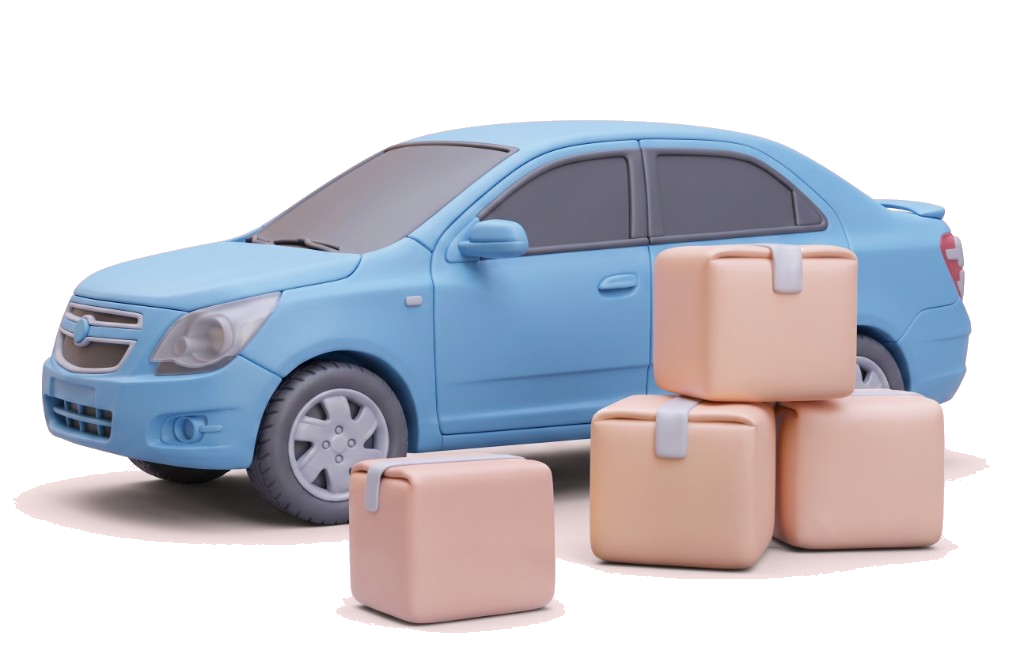
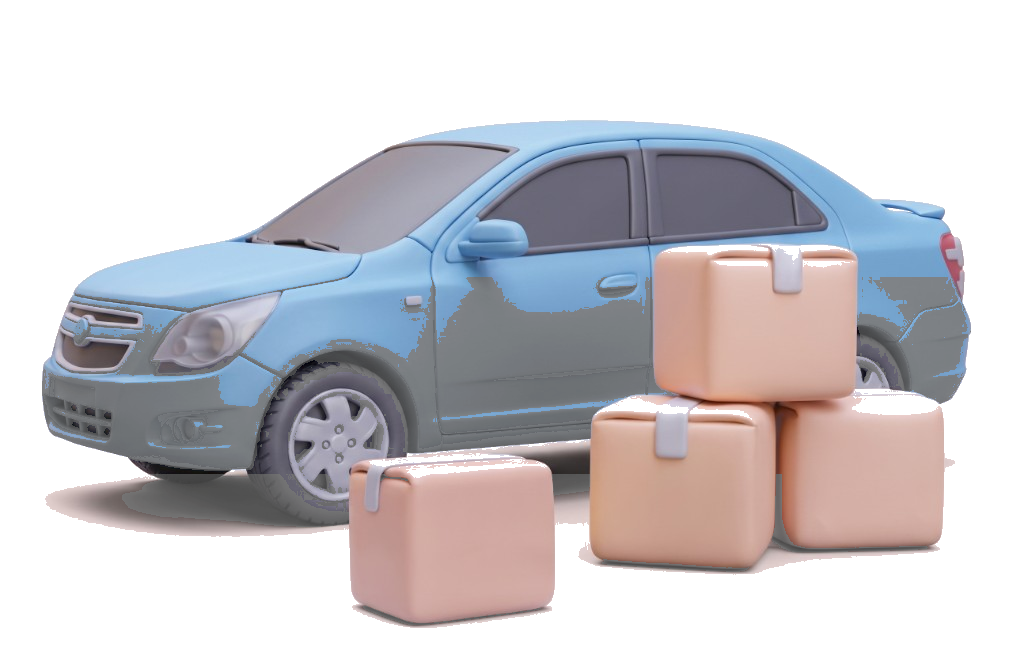
update

diff --git a/index.html b/index.html
@@ -133,10 +133,9 @@ html,body{
 }
 .shipment-card{
   display:flex;align-items:center;justify-content:space-between;gap:10px;
-  padding:13px;background:rgba(255,255,255,.92);
-  backdrop-filter:blur(12px);-webkit-backdrop-filter:blur(12px);
-  border-radius:22px;border:1px solid rgba(255,255,255,.65);
-  box-shadow:0 6px 24px rgba(0,0,0,.06);
+  padding:13px;background:transparent;
+  border-radius:22px;border:none;
+  box-shadow:none;
 }
 .shipment-thumb{
   width:56px;height:56px;border-radius:12px;object-fit:cover;
@@ -149,7 +148,7 @@ html,body{
   background:#E1F0FA;border:none;
 }
 .shipment-type-icon svg{width:22px;height:22px}
-.shipment-status--travel{color:var(--tg-blue);background:rgba(42,171,238,.14)}
+.shipment-status--travel{color:var(--tg-blue);background:transparent}
 .shipment-body{flex:1;min-width:0;display:flex;flex-direction:column;gap:4px}
 .shipment-dest{
   font-size:16px;font-weight:800;color:#0f172a;letter-spacing:-.02em;
@@ -158,7 +157,7 @@ html,body{
 .shipment-date{font-size:11px;color:#9ca3af;font-weight:500}
 .shipment-status{
   display:inline-block;font-size:11px;font-weight:700;color:var(--tg-blue);
-  background:#E1F0FA;padding:3px 8px;border-radius:6px;width:fit-content;line-height:1.2;
+  background:transparent;padding:3px 0;border-radius:0;width:fit-content;line-height:1.2;
 }
 .shipment-actions{display:flex;align-items:center;gap:6px;flex-shrink:0}
 .shipment-icon-btn{
@@ -239,6 +238,8 @@ html,body{
   height:44px;padding:0;gap:4px;
   scroll-snap-type:x mandatory;
   scroll-padding-inline:50%;
+  overscroll-behavior-x:contain;
+  scroll-behavior:auto;
 }
 #driverView .region-picker--horizontal .region-picker-spacer{
   flex:0 0 auto;min-width:0;scroll-snap-align:none;
@@ -792,11 +793,11 @@ html,body{
 .theme-telegram .region-picker-item.is-adjacent{color:var(--tg-hint)!important}
 .theme-telegram .shipments-head{color:var(--tg-btn)!important}
 .theme-telegram .shipment-card{
-  background:var(--tg-section)!important;border-color:var(--tg-secondary)!important;
+  background:transparent!important;border:none!important;box-shadow:none!important;
 }
 .theme-telegram .shipment-dest{color:var(--tg-text)!important}
 .theme-telegram .shipment-status{
-  color:var(--tg-btn)!important;background:color-mix(in srgb,var(--tg-btn) 12%,transparent)!important;
+  color:var(--tg-btn)!important;background:transparent!important;
 }
 .theme-telegram .shipment-icon-btn--edit svg{stroke:var(--tg-btn)!important}
 .theme-telegram .shipment-icon-btn--location svg{fill:var(--tg-btn)!important;stroke:var(--tg-btn)!important}
@@ -956,7 +957,7 @@ html,body{
       <div id="senderView">
         <div class="sender-body">
           <div class="scene" aria-hidden="true">
-            <img class="scene-img" src="assets/scene-clay.png" alt="" width="1024" height="658" decoding="async"/>
+            <img class="scene-img" src="assets/scene-clay.png?v=2" alt="" width="1024" height="658" decoding="async"/>
           </div>
           <div class="shipments-wrap" id="shipmentsWrap">
             <div class="shipments-head">Jo'natmalarim</div>
@@ -1368,7 +1369,8 @@ const MAP_MARKER_PERSON_SVG = `<svg xmlns="http://www.w3.org/2000/svg" viewBox="
   <path d="M14 34 Q20 30 26 32 L24 50 Q20 48 16 50 Z" fill="url(#pg)" opacity=".95"/>
   <path d="M50 34 Q44 30 38 32 L40 50 Q44 48 48 50 Z" fill="url(#pg)" opacity=".95"/>
 </svg>`;
-let selectedDriverRegion = 'Samarqand';
+let selectedDriverRegion = REGION_ALL;
+let pickerVisualRaf = null;
 let regionPickerBuilt = false;
 let lastDriverPickerKey = '';
 let userLocationRegion = null;
@@ -1399,6 +1401,8 @@ let locationPickerPin = null;
 const SHIPMENT_ICON_EDIT = '<svg viewBox="0 0 24 24" aria-hidden="true"><path d="M12 20h9"/><path d="M16.5 3.5a2.12 2.12 0 0 1 3 3L7 19l-4 1 1-4 6.5-6.5z"/></svg>';
 const SHIPMENT_ICON_PIN = '<svg viewBox="0 0 24 24" aria-hidden="true"><path d="M12 22s7-4.35 7-11a7 7 0 1 0-14 0c0 6.65 7 11 7 11z"/><circle cx="12" cy="10" r="2.8"/></svg>';
 const SHIPMENT_ICON_TRASH = '<svg viewBox="0 0 24 24" aria-hidden="true"><path d="M4 7h16"/><path d="M9 7V5h6v2"/><path d="M7 7l1 13h8l1-13"/><path d="M10 11v5M14 11v5"/></svg>';
+
+const REGION_ALL = '__all__';
 
 const UZ_REGIONS = [
   'Toshkent', 'Samarqand', "Farg'ona", 'Andijon', 'Namangan', 'Buxoro',
@@ -1475,8 +1479,14 @@ function detectRegionFromCoords(lng, lat){
 }
 
 function getPickerRegions(){
-  if (!userLocationRegion) return [...UZ_REGIONS];
-  return UZ_REGIONS.filter(r => r !== userLocationRegion);
+  const base = userLocationRegion
+    ? UZ_REGIONS.filter(r => r !== userLocationRegion)
+    : [...UZ_REGIONS];
+  return base.includes(REGION_ALL) ? base : [...base, REGION_ALL];
+}
+
+function isRegionAll(region){
+  return region === REGION_ALL;
 }
 
 function getDistrictsForRegion(region){
@@ -1495,7 +1505,8 @@ function destToRegion(dest){
 }
 
 function destMatchesDriverRegion(dest){
-  if (!selectedDriverRegion || !dest) return false;
+  if (!dest) return false;
+  if (!selectedDriverRegion || isRegionAll(selectedDriverRegion)) return true;
   return dest === selectedDriverRegion || dest.startsWith(selectedDriverRegion + ' —');
 }
 
@@ -1512,7 +1523,8 @@ async function refreshUserLocationRegion(){
 
 function fillRegionSelect(el, placeholder, regions){
   if (!el) return;
-  const list = regions || UZ_REGIONS;
+  const base = regions || UZ_REGIONS;
+  const list = base.includes(REGION_ALL) ? base : [...base, REGION_ALL];
   const ph = placeholder || 'Viloyatni tanlang';
   const phCyr = UI_PHRASE_CYRILLIC[ph] || latinToCyrillic(ph);
   el.innerHTML = `<option value="" disabled selected>${phCyr}</option>` +
@@ -1554,6 +1566,7 @@ function buildRegionPickerTrackPlain(track, regions){
 }
 
 function regionPickerLabel(region){
+  if (isRegionAll(region)) return 'Ҳаммаси';
   return REGION_CYRILLIC[region] || latinToCyrillic(region);
 }
 
@@ -1595,31 +1608,25 @@ function scrollPickerToRegion(track, region, smooth){
   const el = track.querySelector(`[data-region="${region}"]`);
   if (!el) return;
   const vertical = track.closest('.region-picker--vertical');
+  const driverH = isDriverHorizontalTrack(track);
+  const behavior = smooth && !driverH ? 'smooth' : 'instant';
   if (vertical) {
     const top = el.offsetTop - (track.clientHeight / 2) + (el.offsetHeight / 2);
-    track.scrollTo({ top, behavior: smooth ? 'smooth' : 'instant' });
+    track.scrollTo({ top, behavior });
   } else {
     layoutHorizontalPickerSpacers(track);
     const left = Math.max(0, el.offsetLeft - (track.clientWidth - el.offsetWidth) / 2);
     const max = track.scrollWidth - track.clientWidth;
-    track.scrollTo({ left: Math.min(left, max), behavior: smooth ? 'smooth' : 'instant' });
+    track.scrollTo({ left: Math.min(left, max), behavior });
   }
 }
 
-function snapHorizontalPickerToNearest(track, smooth, onCommit){
-  const items = [...track.querySelectorAll('.region-picker-item')];
-  if (!items.length) return;
-  const center = track.scrollLeft + track.clientWidth / 2;
-  let closest = null;
-  let best = Infinity;
-  items.forEach(item => {
-    const mid = item.offsetLeft + item.offsetWidth / 2;
-    const d = Math.abs(mid - center);
-    if (d < best) { best = d; closest = item; }
+function schedulePickerVisuals(track, commit, onCommit){
+  if (pickerVisualRaf) cancelAnimationFrame(pickerVisualRaf);
+  pickerVisualRaf = requestAnimationFrame(() => {
+    pickerVisualRaf = null;
+    updateRegionPickerVisuals(commit, track, onCommit);
   });
-  if (!closest) return;
-  scrollPickerToRegion(track, closest.dataset.region, smooth);
-  updateRegionPickerVisuals(true, track, onCommit);
 }
 
 function bindRegionPickerScroll(track, onCommit){
@@ -1627,21 +1634,12 @@ function bindRegionPickerScroll(track, onCommit){
   track.dataset.pickerBound = '1';
   const driverH = isDriverHorizontalTrack(track);
   track.querySelectorAll('.region-picker-item').forEach(btn => {
-    btn.addEventListener('click', () => scrollPickerToRegion(track, btn.dataset.region, true));
+    btn.addEventListener('click', () => scrollPickerToRegion(track, btn.dataset.region, !driverH));
   });
-  let scrollTimer;
-  const onScroll = () => {
-    updateRegionPickerVisuals(false, track, onCommit);
-    clearTimeout(scrollTimer);
-    scrollTimer = setTimeout(() => {
-      if (driverH) snapHorizontalPickerToNearest(track, true, onCommit);
-      else updateRegionPickerVisuals(true, track, onCommit);
-    }, 100);
-  };
+  const onScroll = () => schedulePickerVisuals(track, false, onCommit);
   track.addEventListener('scroll', onScroll, { passive: true });
   track.addEventListener('scrollend', () => {
-    if (driverH) snapHorizontalPickerToNearest(track, true, onCommit);
-    else updateRegionPickerVisuals(true, track, onCommit);
+    updateRegionPickerVisuals(true, track, onCommit);
   }, { passive: true });
 }
 
@@ -1649,23 +1647,26 @@ function updateRegionPickerVisuals(commit, trackEl, onCommit){
   const track = trackEl || document.getElementById('regionPickerTrack');
   if (!track) return;
   const vertical = !!track.closest('.region-picker--vertical');
-  const trackRect = track.getBoundingClientRect();
-  const centerX = trackRect.left + trackRect.width / 2;
-  const centerY = trackRect.top + trackRect.height / 2;
   const items = [...track.querySelectorAll('.region-picker-item')];
+  if (!items.length) return;
   let closest = null;
   let closestDist = Infinity;
 
-  items.forEach(item => {
-    const rect = item.getBoundingClientRect();
-    const dist = vertical
-      ? Math.abs(rect.top + rect.height / 2 - centerY)
-      : Math.abs(rect.left + rect.width / 2 - centerX);
-    if (dist < closestDist) {
-      closestDist = dist;
-      closest = item;
-    }
-  });
+  if (vertical) {
+    const centerY = track.scrollTop + track.clientHeight / 2;
+    items.forEach(item => {
+      const mid = item.offsetTop + item.offsetHeight / 2;
+      const dist = Math.abs(mid - centerY);
+      if (dist < closestDist) { closestDist = dist; closest = item; }
+    });
+  } else {
+    const centerX = track.scrollLeft + track.clientWidth / 2;
+    items.forEach(item => {
+      const mid = item.offsetLeft + item.offsetWidth / 2;
+      const dist = Math.abs(mid - centerX);
+      if (dist < closestDist) { closestDist = dist; closest = item; }
+    });
+  }
 
   items.forEach(item => item.classList.remove('is-center', 'is-adjacent'));
   if (!closest) return;
@@ -1722,11 +1723,15 @@ function ensureDriverRegionPicker(){
     track.dataset.driverPickerResize = '1';
     const zone = track.closest('.driver-picker-zone');
     if (zone && typeof ResizeObserver !== 'undefined') {
+      let resizeTimer;
       new ResizeObserver(() => {
         if (!document.body.classList.contains('view-driver')) return;
-        layoutHorizontalPickerSpacers(track);
-        scrollPickerToRegion(track, selectedDriverRegion, false);
-        updateRegionPickerVisuals(false, track);
+        clearTimeout(resizeTimer);
+        resizeTimer = setTimeout(() => {
+          layoutHorizontalPickerSpacers(track);
+          scrollPickerToRegion(track, selectedDriverRegion, false);
+          updateRegionPickerVisuals(false, track);
+        }, 80);
       }).observe(zone);
     }
   }
@@ -1791,7 +1796,8 @@ const UI_PHRASE_CYRILLIC = {
   'Rasm olindi!': 'Расм олинди!', 'Rasm yuklandi!': 'Расм юкланди!',
   'Saqlandi': 'Сақланди', 'Avval rasm oling': 'Аввал расм олинг',
   'Keyingi': 'Кейинги', 'Tuman tanlash': 'Туман танлаш',
-  'Tuman tanlang': 'Туман танланг'
+  'Tuman tanlang': 'Туман танланг',
+  'Aniq viloyatni tanlang': 'Аниқ вилоятни танланг'
 };
 
 const LATIN_CYR_CHAR = {
@@ -2176,6 +2182,10 @@ function sendSheetNext(){
     showToast('Viloyatni tanlang');
     return;
   }
+  if (isRegionAll(region)) {
+    showToast('Aniq viloyatni tanlang');
+    return;
+  }
   sendSheetStep = 2;
   document.getElementById('sendStepRegion').hidden = true;
   document.getElementById('sendStepDistrict').hidden = false;
@@ -2193,6 +2203,10 @@ function travelSheetNext(){
   const region = selectedTravelRegion || document.getElementById('travelRegion')?.value;
   if (!region) {
     showToast('Viloyatni tanlang');
+    return;
+  }
+  if (isRegionAll(region)) {
+    showToast('Aniq viloyatni tanlang');
     return;
   }
   travelSheetStep = 2;
